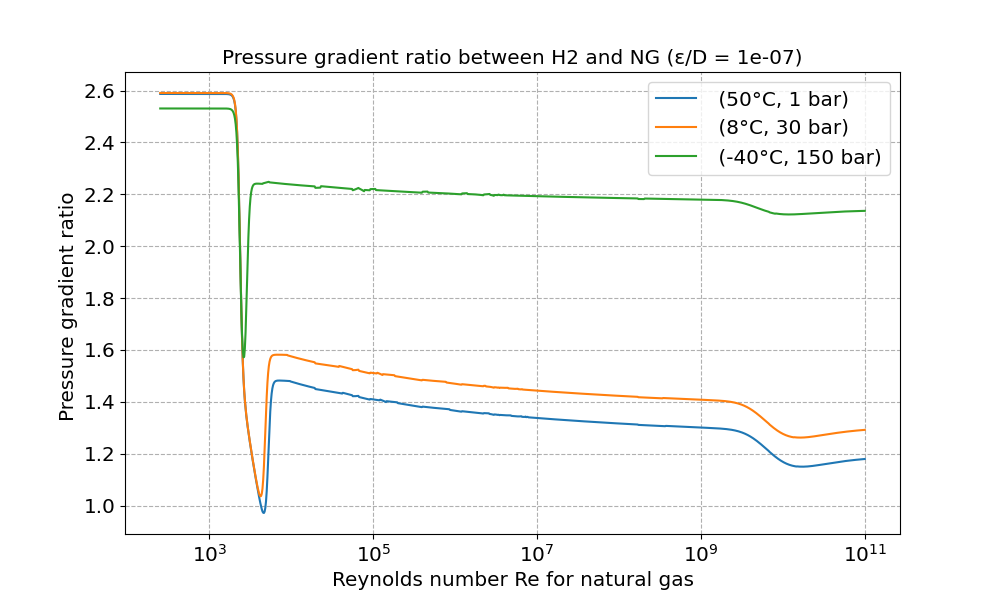
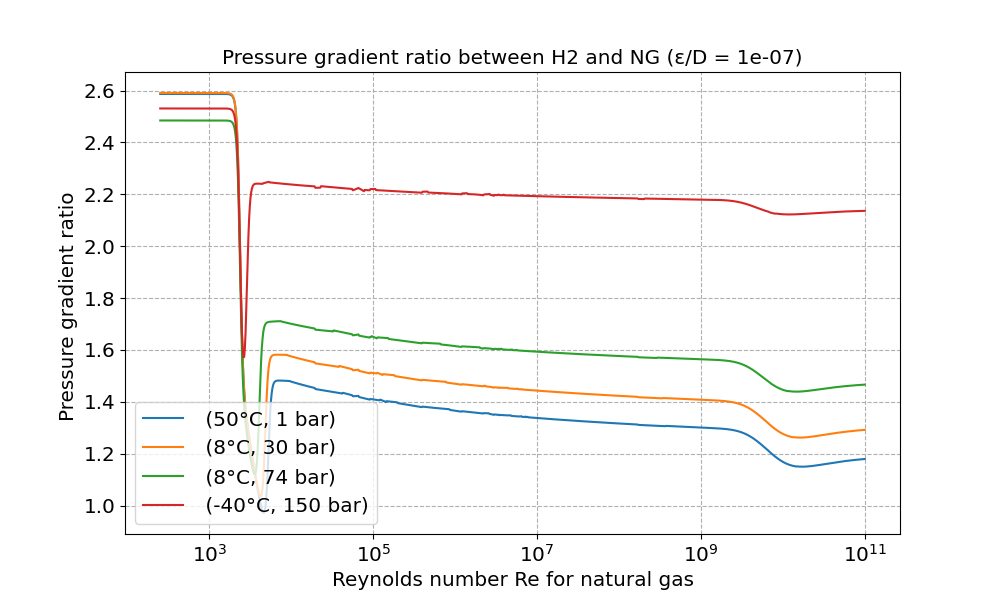
added a 74 bar line to the plots

diff --git a/moody.py b/moody.py
@@ -408,7 +408,7 @@ def plot_pt_diagram(title, filename, plot="loglog", fff=colebrook, gradient=Fals
     for f in fff: # several different friction factor functions
         friction_factors = {}
         
-        for pt in [(1,50), (30,8), (150,-40)]:
+        for pt in [(1,50), (30,8), (74,8), (150,-40)]:
             P = pt[0]
             t = pt[1]
             T = T273+t
